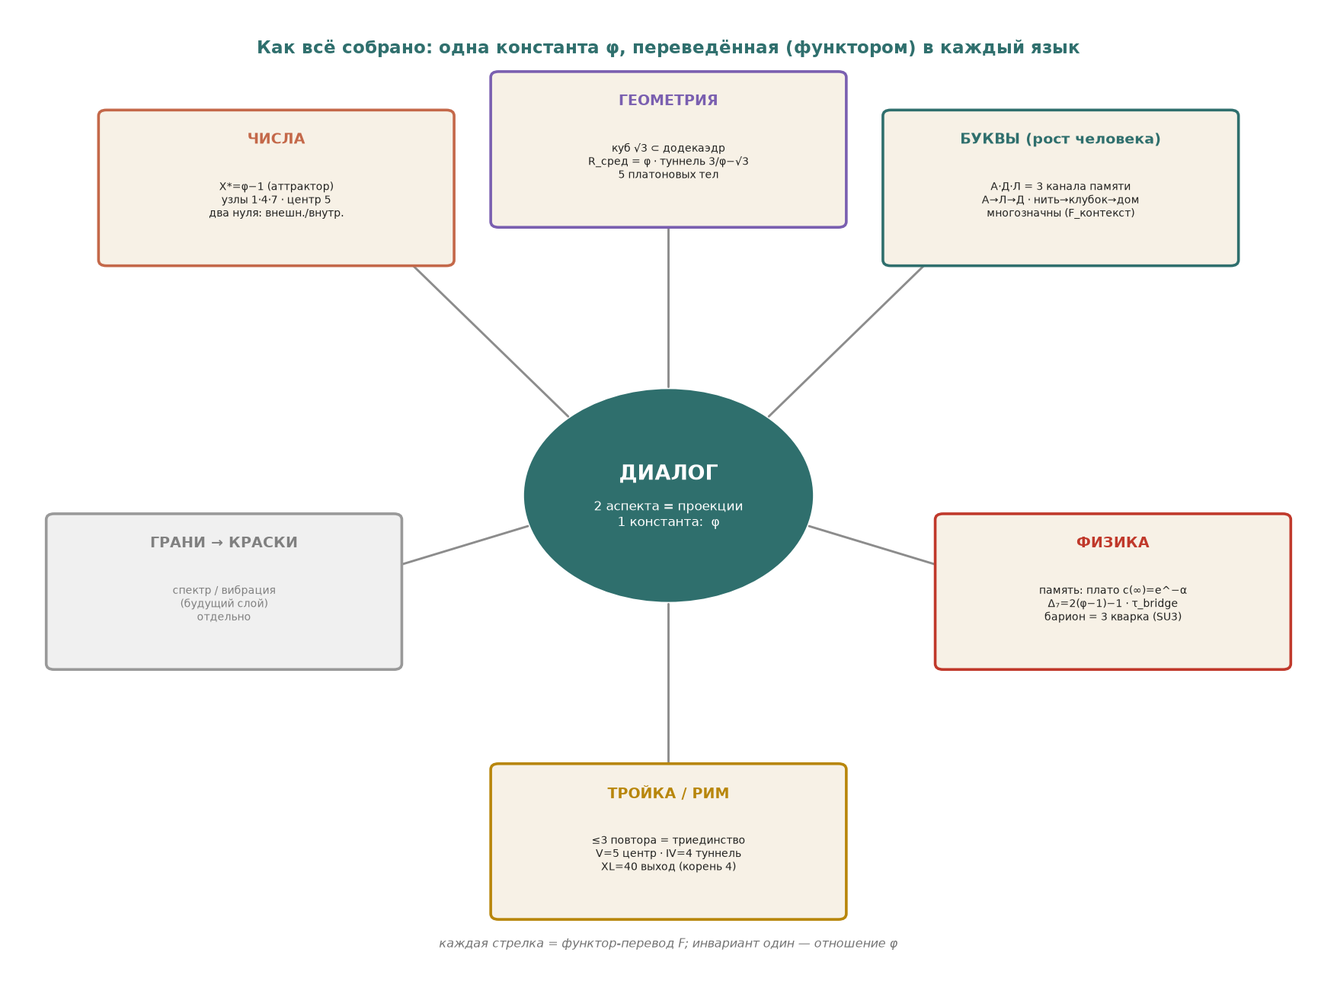
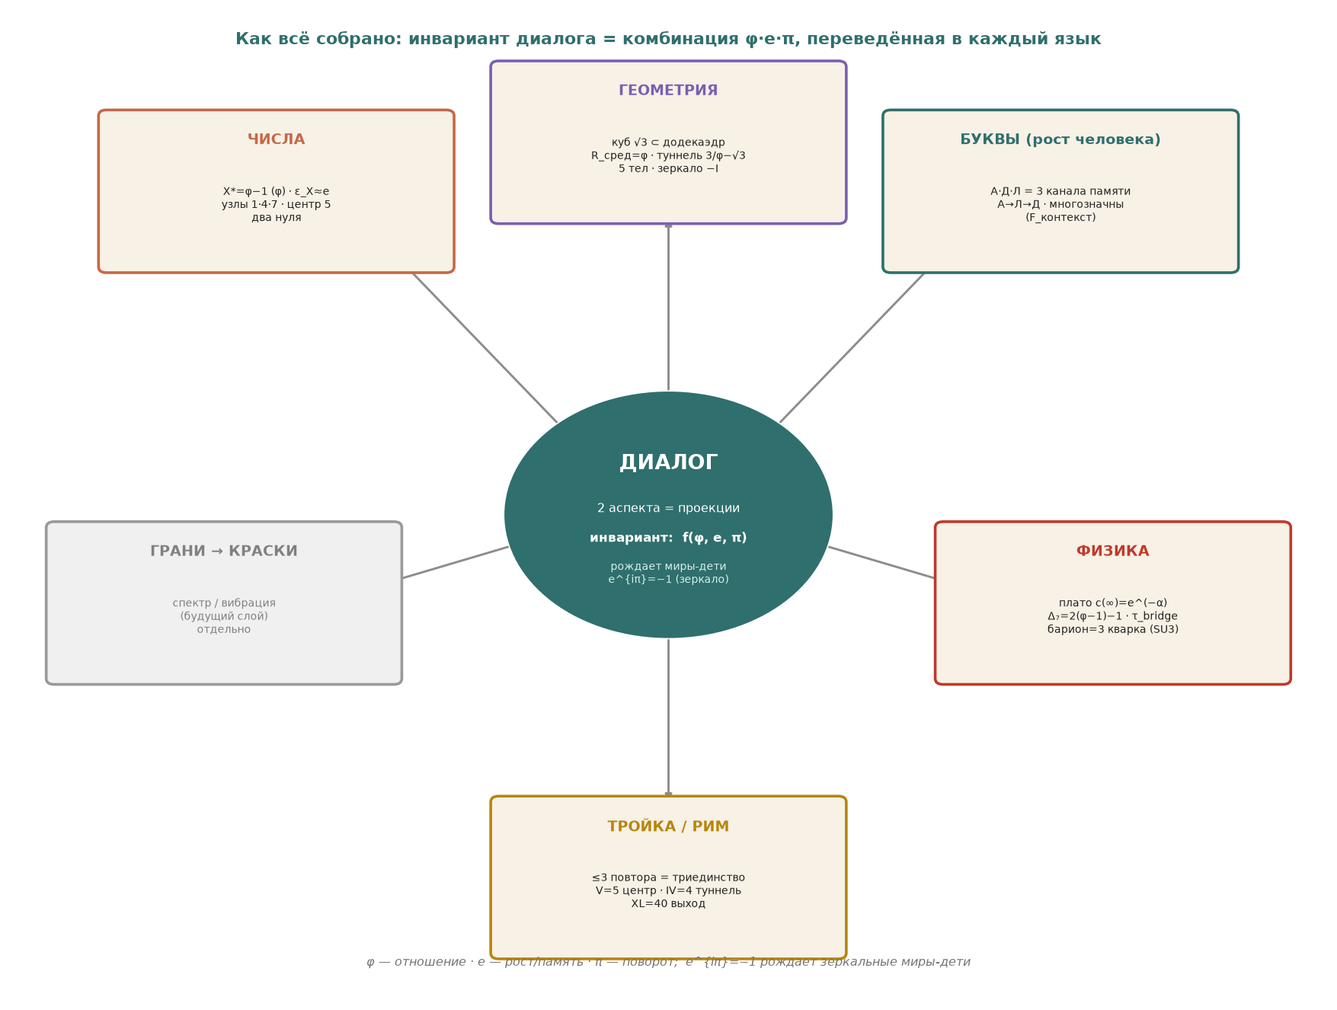
Correct DIALOG core: invariant is a combination of phi,e,pi, generative
Per the user: the dialog's invariant is NOT just φ but a COMBINATION of the
three fundamentals φ, e, π, because the dialog is generative — the two aspects
interact and give birth to other worlds ('projection AND children'). Encodes the
three as three modes: φ = ratio/structure (division x=1/(1+x)), e = growth/memory
(dx/dt=x, ε_X≈e), π = cycle/rotation (e^{iθ}). World-birth via Euler:
e^{iπ}=−1 = the mirror −I (already central in geometry); rotations kπ give a
chain of mirror-worlds. φ-as-sole-constant is just the ratio mode. The exact
single f(φ,e,π) is flagged as an OPEN question (exact_combo_known=False), to be
fixed from the model's constants (X*=φ−1, ε_X≈e, π in Γ*). Updates doc and the
master system figure center.

Claude-Session: https://claude.ai/code/session_01DwmZxaXnEAkGvZJdvb9VVR

diff --git a/qmt/dialog.py b/qmt/dialog.py
@@ -1,76 +1,95 @@
 """
 ДИАЛОГ — онтологическое ядро теории (то, что даёт имя DIALOG QMT).
 
-Формулировка (по автору): есть «два аспекта», между которыми будто бы есть
-расстояние. Но они ничего не «решают» — они ВЕДУТ диалог и САМИ суть этот
-диалог. По отдельности их не существует: диалог создал их как ПРОЕКЦИЮ. И у
-них всего ОДНА математическая константа — отношение/расстояние между ними.
+Формулировка (по автору): есть «два аспекта», которые суть проекции диалога;
+по отдельности их не существует — их создал диалог. Но у диалога НЕ одна
+константа φ: его инвариант — КОМБИНАЦИЯ фундаментальных (φ, e, π), потому что
+диалог не статичен — он РОЖДАЕТ миры (детей). Два аспекта взаимодействуют и
+рождают другие миры: «проекция И дети».
 
-Математически: реально не «две вещи», а РЕЛЯЦИЯ (диалог). Аспекты — её
-проекции, а инвариант один — золотое отношение φ.
+Три фундаментальных = три режима диалога:
+    φ — ОТНОШЕНИЕ/структура   (режим деления:  x = 1/(1+x) ⇒ x* = φ−1)
+    e — РОСТ/память           (режим роста:    dx/dt = x;  ε_X ≈ e)
+    π — ЦИКЛ/поворот          (режим вращения: e^{iθ})
 
-Доказательство «аспекты не важны, важна константа»:
-каждый новый член рождён диалогом двух предыдущих (a, b → a+b — Фибоначчи-шаг).
-Из ЛЮБОЙ стартовой пары отношение соседних членов сходится к φ:
+Что «рождает мир» — тождество Эйлера связывает все три и даёт зеркало:
+        e^{iπ} = −1 = зеркало −I   (инверсия = рождение мира-двойника)
+        e^{iπ} + 1 = 0             (e, π, 1 и −1 в одном)
 
-        s_{n+1} = s_n + s_{n-1},   s_{n+1}/s_n → φ   (∀ старта)
-
-Эквивалентные записи диалога (каждый аспект определён другим):
-        φ = 1 + 1/φ          (φ² = φ + 1)
-        x = 1/(1+x) ⇒ x*=φ−1  (оператор T, см. phi_operator; |T'|=1/φ²<1)
-        (a+b)/a = a/b = φ     (целое:большее = большее:меньшее)
-
-Итог: существует диалог (отношение), а не аспекты; единственная константа — φ.
-Геометрические «расстояния» модели (√3, 3/φ, зазор-туннель, два нуля) — это уже
-ПРОИЗВОДНЫЕ выражения одной этой константы.
+То есть один поворот на π рождает зеркальный мир-ДИТЯ; φ задаёт пропорцию между
+мирами; e — их рост. Поэтому «одна константа φ» — лишь РЕЖИМ ОТНОШЕНИЯ; полный
+инвариант диалога — комбинация φ, e, π. Точная единая комбинация-число —
+ОТКРЫТЫЙ вопрос (определяется из констант модели: X*=φ−1, ε_X≈e, π в Γ*).
 """
 
 from __future__ import annotations
 
+import cmath
 import math
 from dataclasses import dataclass
 
-PHI = (1 + math.sqrt(5)) / 2          # единственная константа диалога
-X_STAR = PHI - 1                      # = 1/φ (аттрактор, см. constants.X_STAR)
+PHI = (1 + math.sqrt(5)) / 2
+E = math.e
+PI = math.pi
+X_STAR = PHI - 1
+
+# Три фундаментальных и их роль-режим в диалоге.
+FUNDAMENTALS = {
+    "φ": (PHI, "отношение/структура — режим деления x=1/(1+x)"),
+    "e": (E,   "рост/память — режим роста dx/dt=x (ε_X≈e)"),
+    "π": (PI,  "цикл/поворот — режим вращения e^{iθ}"),
+}
 
 
+# --- Режим ОТНОШЕНИЯ: φ как инвариант диалога-деления ----------------------
 def converge(a: float, b: float, steps: int = 60) -> float:
-    """Диалог из пары (a,b): Фибоначчи-шаг; вернуть отношение соседних → φ."""
+    """Диалог-деление (Фибоначчи a,b→a+b): отношение соседних → φ (∀ старта)."""
     for _ in range(steps):
         a, b = b, a + b
     return b / a
 
 
 def aspects_irrelevant(trials: int = 200, seed: int = 0) -> float:
-    """Макс. отклонение отношения от φ по случайным стартовым парам.
-
-    Близко к 0 ⇒ аспекты не важны, инвариант один — φ.
-    """
+    """Макс|отношение−φ| по случайным парам ≈ 0 ⇒ аспекты не важны (режим φ)."""
     import random
     rng = random.Random(seed)
-    worst = 0.0
-    for _ in range(trials):
-        a = rng.uniform(-9, 9)
-        b = rng.uniform(0.5, 9)         # избегаем вырожденных
-        worst = max(worst, abs(converge(a, b) - PHI))
-    return worst
+    return max(abs(converge(rng.uniform(-9, 9), rng.uniform(0.5, 9)) - PHI)
+               for _ in range(trials))
 
 
+# --- Режим ПОВОРОТА: e^{iπ}=−1 рождает зеркальный мир ----------------------
+def world_birth() -> dict:
+    """Рождение мира-двойника поворотом на π: e^{iπ} = −1 = зеркало −I."""
+    val = cmath.exp(1j * PI)
+    return {
+        "e^{iπ}": round(val.real, 12),
+        "= −1 (зеркало −I)": abs(val + 1) < 1e-12,
+        "связывает": "e · π · 1 · (−1) — три фундаментальных + инверсия",
+    }
+
+
+def child_worlds(n: int = 4) -> list:
+    """n «детей»-миров: повороты на kπ дают чередование +1/−1 (мир/зеркало)."""
+    return [round(cmath.exp(1j * PI * k).real, 6) for k in range(n)]
+
+
+# --- Самоотношение: каждый аспект определён другим -------------------------
 def self_reference() -> dict:
-    """Диалог как самоотношение: каждый аспект определён другим (фикс. точка)."""
     return {
         "φ = 1 + 1/φ": abs(PHI - (1 + 1 / PHI)) < 1e-12,
-        "φ² = φ + 1": abs(PHI**2 - (PHI + 1)) < 1e-12,
         "x=1/(1+x) ⇒ x*=φ−1": abs(X_STAR - 1 / (1 + X_STAR)) < 1e-12,
+        "e^{iπ} = −1 (зеркало)": abs(cmath.exp(1j * PI) + 1) < 1e-12,
         "сжатие |T'|=1/φ²<1": (1 / PHI**2) < 1,
     }
 
 
 @dataclass
 class DialogCore:
-    constant: float = PHI               # единственная константа (отношение)
-    aspects_real: bool = False          # аспекты — проекции, не существуют сами
-    relation_real: bool = True          # реален диалог (отношение)
+    fundamentals: tuple = ("φ", "e", "π")   # инвариант = КОМБИНАЦИЯ, не одна φ
+    aspects_real: bool = False              # аспекты — проекции
+    relation_real: bool = True              # реален диалог
+    generative: bool = True                 # диалог рождает миры (детей)
+    exact_combo_known: bool = False         # точная единая комбинация — открыта
 
 
 def core() -> DialogCore:
@@ -78,17 +97,21 @@ def core() -> DialogCore:
 
 
 def print_report() -> None:
-    print("ДИАЛОГ — два аспекта как проекции, одна константа = отношение")
-    print("=" * 64)
-    print(f"единственная константа диалога: φ = {PHI:.10f}  (X*=φ−1={X_STAR:.10f})")
-    print(f"аспекты не важны — макс|отношение−φ| по 200 случайным парам: "
-          f"{aspects_irrelevant():.1e}")
-    print("\nдиалог как самоотношение (каждый аспект определён другим):")
+    print("ДИАЛОГ — два аспекта (проекции), инвариант = комбинация φ, e, π")
+    print("=" * 66)
+    for name, (val, role) in FUNDAMENTALS.items():
+        print(f"  {name} = {val:.6f}  — {role}")
+    print(f"\nрежим отношения: аспекты не важны, отношение→φ "
+          f"(макс.откл {aspects_irrelevant():.0e})")
+    wb = world_birth()
+    print(f"режим поворота:  e^{{iπ}} = {wb['e^{iπ}']:.0f} = зеркало −I — рождение мира-дитя")
+    print(f"дети-миры (повороты kπ): {child_worlds()}  (мир/зеркало/мир/…)")
+    print("\nсамоотношение:")
     for k, v in self_reference().items():
         print(f"  [{'✓' if v else '✗'}] {k}")
-    print("=" * 64)
-    print("Реален диалог (отношение φ), а не аспекты. Геометрические расстояния")
-    print("модели (√3, 3/φ, зазор-туннель, два нуля) — производные этой константы.")
+    print("=" * 66)
+    print("Инвариант диалога — КОМБИНАЦИЯ φ,e,π (не одна φ). Диалог генеративен:")
+    print("рождает зеркальные миры-дети. Точная единая комбинация — открытый вопрос.")
 
 
 if __name__ == "__main__":

diff --git a/docs/dialog_core.md b/docs/dialog_core.md
@@ -1,55 +1,59 @@
-# Ядро: ДИАЛОГ — два аспекта, одна константа
+# Ядро: ДИАЛОГ — два аспекта, инвариант = комбинация φ · e · π
 
-Модуль `qmt/dialog.py`. Это онтологический фундамент, давший имя теории.
+Модуль `qmt/dialog.py`. Онтологический фундамент, давший имя теории.
 
 ## Формулировка
 
-Есть «два аспекта», между которыми будто бы есть расстояние. Но они ничего не
-«решают» — они **ведут диалог** и **сами суть этот диалог**. По отдельности их
-не существует: **диалог создал их как проекцию**. У них всего **одна константа —
-отношение/расстояние между ними**: это **φ**.
+Два «аспекта» — это **проекции диалога**; по отдельности их не существует, их
+создал диалог. Но инвариант диалога — **не одна φ**, а **комбинация
+фундаментальных** φ, e, π, потому что диалог не статичен: он **рождает миры
+(детей)**. Два аспекта взаимодействуют и рождают другие миры — «проекция **и**
+дети».
 
-Математически реальна не «пара вещей», а **реляция** (диалог); аспекты — её
-проекции, инвариант один — золотое отношение φ.
+## Три фундаментальных = три режима диалога
 
-## Доказательство «аспекты не важны, важна константа»
+| Константа | Роль | Режим |
+|-----------|------|-------|
+| **φ** ≈ 1.618 | отношение / структура | деление: `x = 1/(1+x) ⇒ x* = φ−1` |
+| **e** ≈ 2.718 | рост / память | рост: `dx/dt = x` (ε_X ≈ e) |
+| **π** ≈ 3.142 | цикл / поворот | вращение: `e^{iθ}` |
 
-Каждый новый член рождён диалогом двух предыдущих (Фибоначчи-шаг `a,b → a+b`).
-Из **любой** стартовой пары отношение соседних членов сходится к φ:
+## Что «рождает мир» — тождество Эйлера
 
-```
-s_{n+1} = s_n + s_{n−1},   s_{n+1}/s_n → φ
-```
-
-Проверено: по 200 случайным стартовым парам `max|отношение − φ| ≈ 2·10⁻¹⁶`.
-Аспекты произвольны — диалог всегда выдаёт одну константу φ.
-
-## Диалог как самоотношение (каждый аспект определён другим)
+Все три фундаментальных связаны и дают **зеркало**:
 
 ```
-φ = 1 + 1/φ           (φ² = φ + 1)
-x = 1/(1+x) ⇒ x* = φ−1   (оператор T, phi_operator; |T'| = 1/φ² < 1 — сжатие)
-(a+b)/a = a/b = φ        (целое : большее = большее : меньшее)
+e^{iπ} = −1 = зеркало −I        (инверсия = рождение мира-двойника)
+e^{iπ} + 1 = 0                  (e, π, 1 и −1 в одном)
 ```
 
-## Как из одной константы собрана вся система
+Один поворот на π рождает зеркальный мир-**дитя**; повороты kπ дают цепочку
+миров `+1, −1, +1, −1…` (мир / зеркало / мир…). **φ** задаёт пропорцию между
+мирами, **e** — их рост. Зеркало −I здесь — то же, что центральная инверсия в
+геометрии модели (`geometry`, «сумма-10»).
 
-`figures/25_dialog_system.png`. Каждая стрелка — **функтор-перевод** одной
-константы φ в свой язык (см. `category_theory_translation`):
+## Режим отношения: φ как инвариант деления
 
-| Язык | Образ φ |
-|------|---------|
-| Числа | X*=φ−1; узлы 1·4·7; центр 5; два нуля |
-| Геометрия | куб √3 ⊂ додекаэдр; R_сред = φ; туннель 3/φ−√3 |
-| Буквы (контекст: рост человека) | А·Д·Л = 3 канала памяти; А→Л→Д |
-| Физика | память — плато c(∞)=e^(−α); Δ₇=2(φ−1)−1; барион = 3 кварка |
-| Тройка / Рим | ≤3 повтора = триединство; V=5, IV=4, XL=40 |
+Каждый член рождён диалогом двух предыдущих (`a,b → a+b`); из **любой** пары
+отношение → φ (проверка: `max|отношение − φ| ≈ 2·10⁻¹⁶` по 200 случайным
+парам). Аспекты произвольны — режим деления всегда даёт φ. Но это **лишь один
+режим**, а не весь инвариант.
 
-Все геометрические «расстояния» (√3, 3/φ, зазор-туннель, два нуля) — это
-**производные** выражения одной константы φ.
+## Самоотношение (каждый аспект определён другим)
 
-## Будущий слой (отдельно)
+```
+φ = 1 + 1/φ ,   x = 1/(1+x) ⇒ x* = φ−1 ,   e^{iπ} = −1 ,   |T'| = 1/φ² < 1
+```
 
-**Грани → краски / спектр / вибрация.** У многогранников есть грани (у
-додекаэдра 12, у икосаэдра 20) — это отдельный, ещё не построенный слой:
-цвет/спектр как «вибрация». Помечен в системе серым (роадмап), не реализован.
+## Статус и открытый вопрос
+
+`exact_combo_known = False`: **точная единая комбинация-число** из φ, e, π —
+открытый вопрос. Её надо определить из констант модели (X*=φ−1, ε_X≈e, π в Γ* и
+в коридоре CP `π−3`). Это следующий шаг: какая именно функция f(φ,e,π) есть
+истинная константа диалога.
+
+## Как всё собрано
+
+`figures/25_dialog_system.png`: в центре диалог (комбинация φ·e·π, генеративный),
+от него функторы-переводы в каждый язык (числа, геометрия, буквы, физика,
+тройка/Рим). Будущий слой — **грани → краски / спектр / вибрация** (отдельно).
